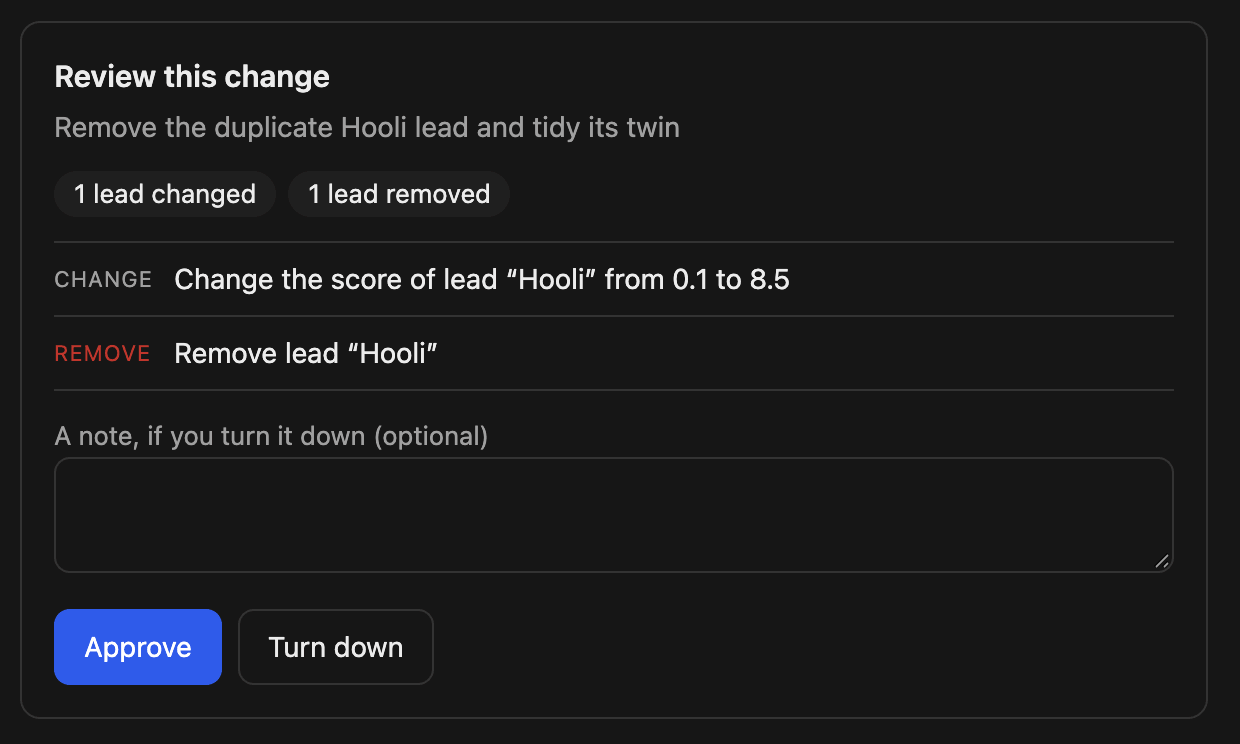
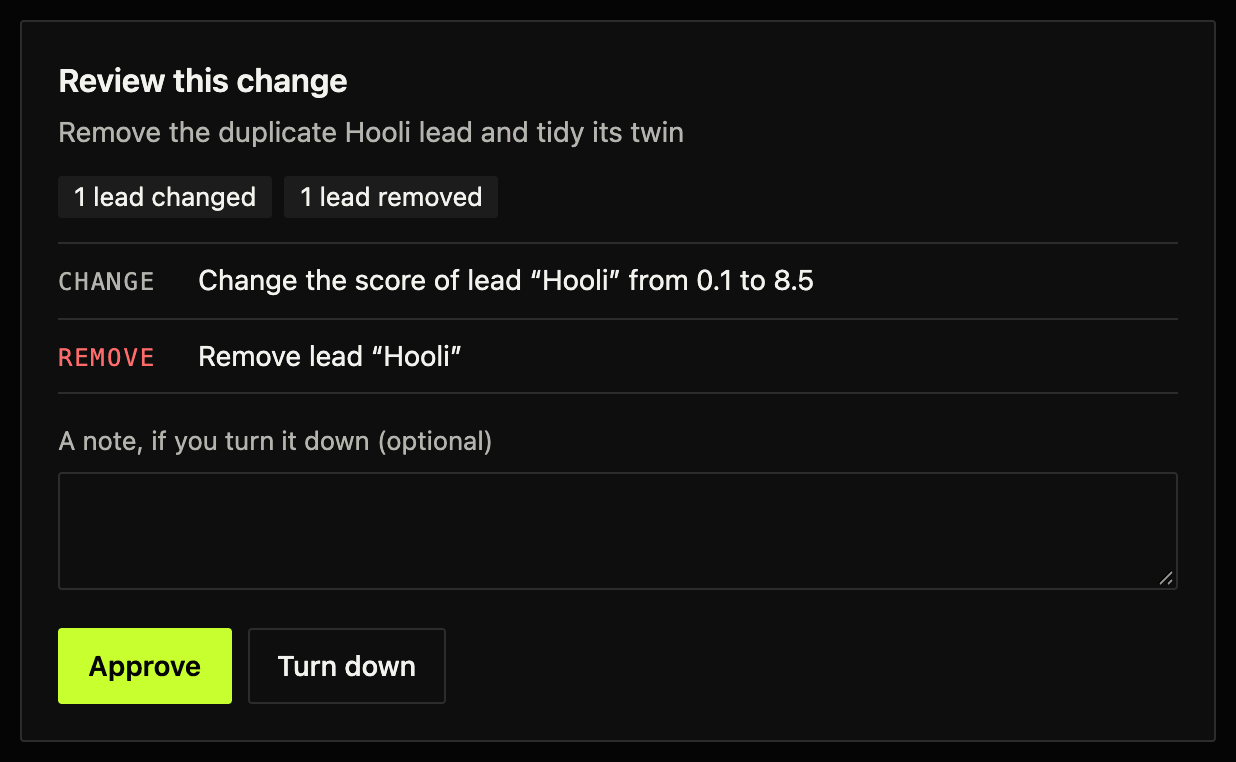
Chronos Gateway 0.2.7: a new look, new pictures of the console

diff --git a/GUIDE.md b/GUIDE.md
@@ -10,12 +10,13 @@ unless you set up webhooks or link it to Chronos Cloud (both optional).
 
 | | |
 |---|---|
-| Current release | **0.2.6** ([release notes](https://github.com/Abhishekxdg/chronos-gateway-releases/releases)) |
+| Current release | **0.2.7** ([release notes](https://github.com/Abhishekxdg/chronos-gateway-releases/releases)) |
 | Engine it bundles | Chronos **0.4.6** ([release](https://github.com/Abhishekxdg/Chronos-DB/releases/tag/v0.4.6)) |
 | Status | Early (0.2). Try it on a staging copy of your database first. |
 | New in 0.2.0 | [The console](#the-console): set it up, review and approve, and change the rules in your browser; [your own domain](#on-your-own-domain-over-https) with HTTPS. |
 | New in 0.2.1 | Console fixes: conflicts shown row by row with by-column settling, plain-word table names, "?" rows for tables Postgres hasn't analyzed. |
 | New in 0.2.2 | Install fixes: the installer shows the setup code the log shows, logs without color codes under systemd and Docker, and a connection check that says what to do with a self-signed Postgres certificate. |
+| New in 0.2.7 | A new look for the console, the approval widget and the approval pages. The widget's default accent is now lime: a page that set `--chronos-accent` keeps its colour and white text on it, and `--chronos-on-accent` sets that text. |
 | New in 0.2.6 | Signed downloads: each binary and the image are signed with cosign (keyless, Sigstore) by Chronos's release account. `CHRONOS_VERIFY=1` makes the installer check the signatures of both the gateway and its engine; [check the image](#check-the-images-signature) with `cosign verify`. |
 | New in 0.2.5 | A run is held only by its own tenant's rows (engine 0.4.6): another tenant's rows changing, in Postgres or by a refresh, no longer hold a run that read the same tables, and a run that read a child table of more than 100,000 rows can be checked, so it needs no `skip_read_check`. |
 | New in 0.2.4 | The connection check reads `sslmode` as libpq does, so Supabase's pooler and other providers with their own certificate authority pass it. A run held because what it read changed can be approved anyway, by a person who chooses to (`skip_read_check`; the console and the approval page ask). Attaching over 1,000,000 rows asks first. |
@@ -145,7 +146,7 @@ To install one exact release, use that release's own installer. It also names th
 with:
 
 ```bash
-curl -fsSL https://github.com/Abhishekxdg/chronos-gateway-releases/releases/download/v0.2.6/install.sh | sudo sh -s -- --service
+curl -fsSL https://github.com/Abhishekxdg/chronos-gateway-releases/releases/download/v0.2.7/install.sh | sudo sh -s -- --service
 ```
 
 Installer options:
@@ -155,7 +156,7 @@ Installer options:
 | `--service` | Install as a systemd service (Linux, root). Without it: only the binaries. |
 | `--uninstall` | Remove the service and the binaries. Keeps the data and the settings. |
 | `CHRONOS_GATEWAY_PREFIX` | Where the binaries go. Default `/usr/local` as root, else `~/.local`. |
-| `CHRONOS_GATEWAY_VERSION` | A release tag such as `v0.2.6`. Default: the release the script came from. |
+| `CHRONOS_GATEWAY_VERSION` | A release tag such as `v0.2.7`. Default: the release the script came from. |
 | `CHRONOS_VERIFY=1` | Also check each download's signature with cosign (gateway 0.2.6 and later; the engine it bundles is signed too). |
 | `CHRONOS_GATEWAY_BASE_URL`, `CHRONOS_ENGINE_BASE_URL` | Download from a mirror instead of GitHub. |
 
@@ -164,7 +165,7 @@ Installer options:
 
 ### 2. Docker
 
-The image is `ghcr.io/abhishekxdg/chronos-gateway`. Tags: `0.2.6`, `0.2.5`, `0.2.4`, `0.2.3`, `0.2.2`, `0.2.1`, `0.2.0`, `0.1.1`, `0.1.0` and `latest`, each for `linux/amd64`
+The image is `ghcr.io/abhishekxdg/chronos-gateway`. Tags: `0.2.7`, `0.2.6`, `0.2.5`, `0.2.4`, `0.2.3`, `0.2.2`, `0.2.1`, `0.2.0`, `0.1.1`, `0.1.0` and `latest`, each for `linux/amd64`
 and `linux/arm64`. It holds both programs on a distroless base (no shell), runs as user 65532, and keeps its data in
 `/data`.
 
@@ -172,7 +173,7 @@ and `linux/arm64`. It holds both programs on a distroless base (no shell), runs 
 docker run -d --name chronos-gateway --restart unless-stopped \
   -p 127.0.0.1:7400:7400 \
   -v chronos-gateway:/data \
-  ghcr.io/abhishekxdg/chronos-gateway:0.2.6
+  ghcr.io/abhishekxdg/chronos-gateway:0.2.7
 docker logs chronos-gateway     # the setup code; then open http://localhost:7400/console
 ```
 
@@ -188,7 +189,7 @@ docker logs chronos-gateway     # the setup code; then open http://localhost:740
 From 0.2.6, each image is signed with cosign (keyless) by Chronos's release account. To check it before you run it:
 
 ```bash
-cosign verify ghcr.io/abhishekxdg/chronos-gateway:0.2.6 \
+cosign verify ghcr.io/abhishekxdg/chronos-gateway:0.2.7 \
   --certificate-identity chronos-release@project-7a947b34-cb98-4716-8f2.iam.gserviceaccount.com \
   --certificate-oidc-issuer https://accounts.google.com
 ```
@@ -201,7 +202,7 @@ capabilities, and the port on this machine only.
 ```bash
 mkdir chronos-gateway && cd chronos-gateway
 curl -fsSLO https://raw.githubusercontent.com/Abhishekxdg/chronos-gateway-releases/main/compose.yaml
-echo 'GATEWAY_VERSION=0.2.6' > .env
+echo 'GATEWAY_VERSION=0.2.7' > .env
 docker compose up -d
 docker compose logs gateway     # the setup code; then open http://localhost:7400/console
 ```
@@ -476,7 +477,7 @@ The widget shows the change in plain words, such as "Remove lead “Hooli”", w
 link works once, for 1 day by default (`GATEWAY_APPROVAL_TTL`), and approves only the version it was made for. For
 the widget to work, the user's browser must reach the gateway at `GATEWAY_PUBLIC_URL`, and your site's origin must
 be in `GATEWAY_ALLOWED_ORIGINS`. The widget fires `chronos-decided` and `chronos-error` events, and takes the CSS
-variables `--chronos-accent`, `--chronos-radius` and `--chronos-font`.
+variables `--chronos-accent`, `--chronos-on-accent` (its text), `--chronos-radius` and `--chronos-font`.
 
 **By your team, signed in with your identity provider (SSO).** Approval links are bearer links: whoever holds
 one decides. To know who decided, and to let only your approvers decide, connect the gateway to your OpenID Connect

diff --git a/README.md b/README.md
@@ -119,7 +119,7 @@ lists the rest. Every option, including pinning a version and running without ro
 </tr>
 </table>
 
-These pictures show the console of 0.2.6 on made-up data.
+These pictures show the console of 0.2.7 on made-up data.
 
 ## Your first agent in 5 minutes
 
@@ -255,7 +255,7 @@ own when you'd rather drive it directly, over the Postgres wire protocol or MCP:
 
 ## Status
 
-Early: 0.2.6, on Chronos DB 0.4.6. Try it on a staging copy of your database first, and
+Early: 0.2.7, on Chronos DB 0.4.6. Try it on a staging copy of your database first, and
 [open an issue](https://github.com/Abhishekxdg/chronos-gateway-releases/issues) when something surprises you.
 
 Source-available under [BUSL-1.1](LICENSE). Downloads are the installer, static Linux binaries (x86-64 and arm64)
